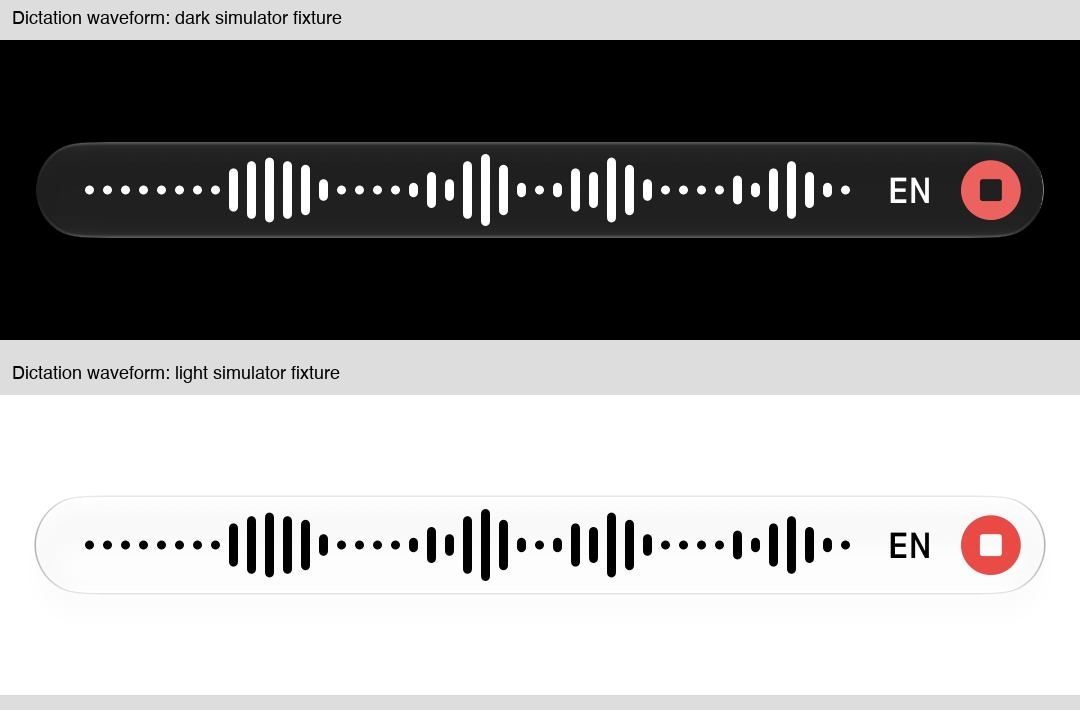
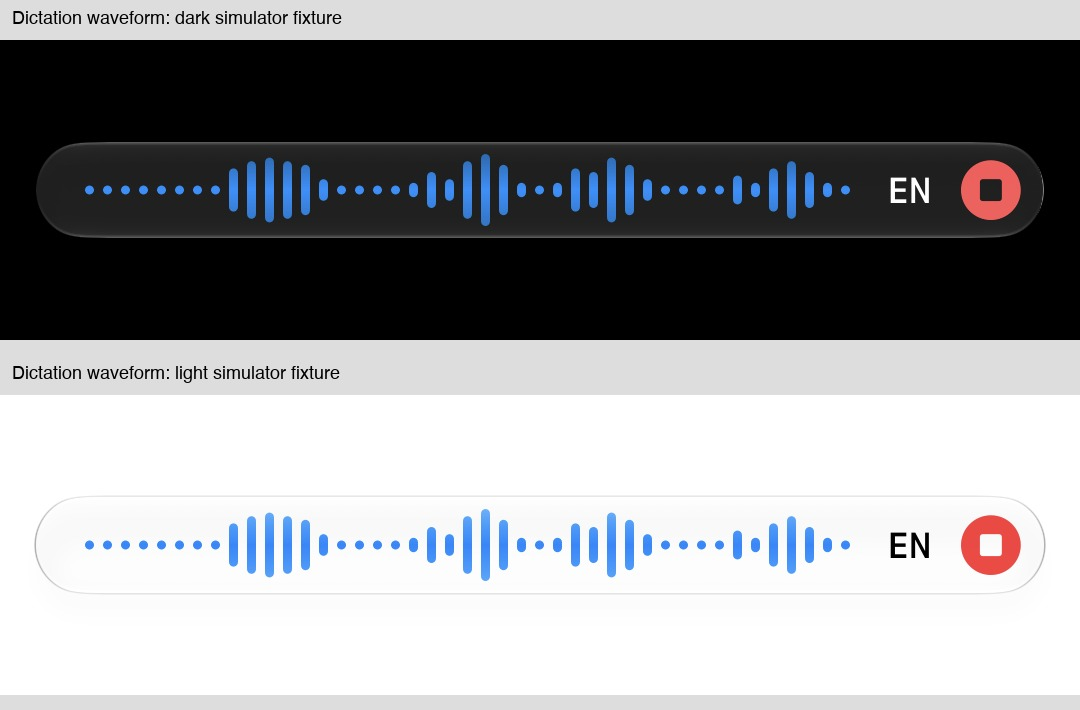
Tint the dictation waveform translucent blue

Changed region(s): [[0.0611, 0.2169, 0.7944, 0.3099], [0.0611, 0.7127, 0.7944, 0.8366]]

diff --git a/Collie/Sources/Collie/AgentScreen.swift b/Collie/Sources/Collie/AgentScreen.swift
@@ -754,6 +754,8 @@ struct DictationBar: View {
 
 struct DictationWaveform: View {
     let levels: [Float]
+    @Environment(\.accessibilityReduceTransparency) private var reduceTransparency
+    @Environment(\.colorSchemeContrast) private var contrast
 
     var body: some View {
         Canvas { context, size in
@@ -768,7 +770,14 @@ struct DictationWaveform: View {
                 path.addRoundedRect(in: CGRect(x: inset + CGFloat(index) * 6, y: (size.height - height) / 2,
                                                width: 3, height: height), cornerSize: CGSize(width: 1.5, height: 1.5))
             }
-            context.fill(path, with: .foreground)
+            if reduceTransparency || contrast == .increased {
+                context.fill(path, with: .color(.blue))
+            } else {
+                context.fill(path, with: .linearGradient(
+                    Gradient(colors: [.blue.opacity(0.65), .blue, .blue.opacity(0.75)]),
+                    startPoint: .zero, endPoint: CGPoint(x: 0, y: size.height)
+                ))
+            }
         }
         .frame(maxWidth: .infinity)
         .frame(height: 24)

diff --git a/README.md b/README.md
@@ -64,7 +64,7 @@ Floating composers, terminal keys, filters and approval actions use native Liqui
 - **Slash commands**: while a Claude Code prompt on the phone starts with `/`, its command is mirrored into the agent's input box so Claude Code's command menu appears live. ↑ ↓ highlight a command, ⇥ takes it into the phone's prompt, and only Send runs it; ⏎ and ⌃⏎ are off while the command shows.
 - **Jump to bottom**: when Claude Code's fullscreen transcript is scrolled up on the machine, a Jump to bottom button brings it back down. Until then the machine refuses keys and prompts, so a permission prompt scrolled out of view cannot be answered unseen.
 - **Claude Code notices**: the options of a notice above the input box (the "Heads up" tip, its explanation and feedback row, the session rating question, or a plugin that draws its options the same way) show as buttons. A tap sends that one digit, without Enter, only while the screen still shows that option above an empty input box. Chat in main session and Turn off suggestions only fill the input box; nothing is sent until you send it. The tip feedback options send Anthropic a feedback signal about the tip, never its text or the transcript. Follow-ups to a rating are answered on the machine.
-- **Dictation**: the mic button dictates into the prompt field with Apple's on-device speech models, in English (US) or French (Canada). Audio never leaves the phone. A waveform fills the glass dictation bar with recent microphone levels, showing speech peaks and pauses while the language and stop controls remain accessible.
+- **Dictation**: the mic button dictates into the prompt field with Apple's on-device speech models, in English (US) or French (Canada). Audio never leaves the phone. A translucent blue waveform fills the glass dictation bar with recent microphone levels, showing speech peaks and pauses while the language and stop controls remain accessible.
 - **Attachments**: up to 10 photos or files per prompt, uploaded over the tailnet and shown as removable thumbnails. The agent receives their paths on the machine; files are deleted after 24 hours.
 - **New task**: start Claude Code, Codex or GitHub Copilot CLI in a new workspace. Each machine can have a base folder (Machines > the machine > Base folder, a full path such as `/Users/you/git`, since `~` is not expanded) inside one of `collied`'s task roots (`[tasks] roots`, the home folder by default). Typing a name then means that folder inside the base, with matching folders offered as you type, and Browse lists the base's folders. Recent folders and absolute paths also work. New folder creates one empty folder (no `git init`) in the base, or in a task root when no base is set, and starts the agent there; it stays if the agent fails to start.
 - **Git worktree tasks**: in New task, choose Git worktree and enter the session checkout inside a task root. Collie lists its worktrees automatically. Create generates a branch name unless you enter one, then places the new checkout under that checkout's `.worktree/` directory. Slashes in a custom branch name become hyphens in the checkout folder name. Open selects an existing checkout from the list. Check the branch and path shown before Start. Collie starts the agent in herdr's returned root pane. An occupied pane is refused. If agent startup fails, the checkout and workspace stay in place and the error identifies them. Archive closes the linked workspace and removes its checkout, including uncommitted changes, then runs `gh poi` to clean up merged branches and worktrees in the repository. For a regular folder, Archive closes only its pane and leaves the folder in place; it runs `gh poi` when the repository is inside a task root. The result reports any skipped or failed cleanup.

diff --git a/docs/reviews/liquid-glass.md b/docs/reviews/liquid-glass.md
@@ -24,7 +24,7 @@ Issue #207 uses the iOS 26 and watchOS 26 glass APIs directly. The minimum versi
 | Watch complications / Smart Stack | Rectangular widget redesigned with three native `Gauge` controls using `.accessoryCircular`. Provider sits inside and a compact reset countdown sits below. Window labels are omitted to maximize gauge space. Percentages are shown in the app after tapping. Native markers indicate usage; the circular complication retains elapsed-time ticks. Preserve stale and missing-data states. Gauges use `widgetAccentable`; no extra glass layer. |
 | Live Activity / Dynamic Island | System-hosted surface. Remove forced black background, white system actions and dark appearance from the Lock Screen activity. Status pills remain content and approval buttons keep the native widget button style. |
 
-Adjacent custom glass controls share `GlassEffectContainer`. Controls inside a glass composer or dictation capsule do not add another glass surface. The dictation waveform fills the available capsule width with recent microphone levels, including repeated levels and silence; history clears when dictation stops or switches language. Agents/Usage uses native interactive page scrolling instead of a gesture that switches only after release. Page transitions triggered by the selector respect Reduce Motion.
+Adjacent custom glass controls share `GlassEffectContainer`. Controls inside a glass composer or dictation capsule do not add another glass surface. The blue dictation waveform uses a translucent gradient, becoming solid with Reduce Transparency or Increase Contrast. It fills the available capsule width with recent microphone levels, including repeated levels and silence; history clears when dictation stops or switches language. Agents/Usage uses native interactive page scrolling instead of a gesture that switches only after release. Page transitions triggered by the selector respect Reduce Motion.
 
 Reference: [Apple's Liquid Glass guidance](https://developer.apple.com/documentation/swiftui/applying-liquid-glass-to-custom-views).
 
